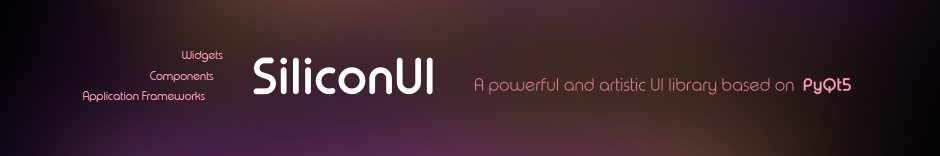
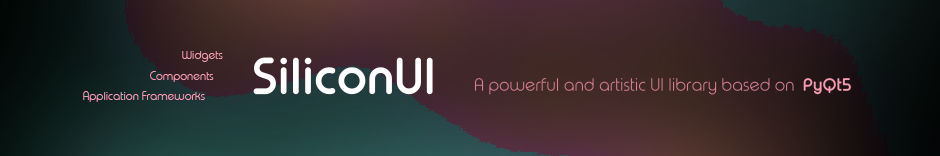
主 UI 紫调全量中性化：siui tokens 冷紫偏差中性灰阶 + 5 页面硬编码紫清理(#1C191F/#7C6FF7/#4C4554/#7573aa) + 图标/横幅资产紫→青灰相重映射 + 时间线紫段与滑条负向渐变清除

Changed region(s): [[0.0926, 0.4103, 0.5862, 1.0], [0.7713, 0.0, 0.833, 0.0513]]

diff --git a/MergeStudio/ui/js/timeline.js b/MergeStudio/ui/js/timeline.js
@@ -438,8 +438,8 @@
       var el = document.getElementById('timeline-legend');
       if (!el) return;
       el.innerHTML =
-        '<span><span class="legend-swatch" style="background:#2a0c4a"></span> 多人脸</span>' +
-        '<span><span class="legend-swatch" style="background:#8a6caa"></span> 少人脸</span>' +
+        '<span><span class="legend-swatch" style="background:#16323a"></span> 多人脸</span>' +
+        '<span><span class="legend-swatch" style="background:#4f7d7f"></span> 少人脸</span>' +
         '<span><span class="legend-swatch" style="background:#4c1010"></span> 无人脸</span>' +
         '<span><span class="legend-swatch" style="background:#6f8f90"></span> 选中人脸</span>';
     },
@@ -523,8 +523,8 @@
         var seg = document.createElement('div');
         seg.className = 'face-density-line__seg';
         var count = d.face_count || 0;
-        if (count === 0) seg.style.background = '#2a0c4a';
-        else if (count < 3) seg.style.background = '#8a6caa';
+        if (count === 0) seg.style.background = '#16323a';
+        else if (count < 3) seg.style.background = '#4f7d7f';
         else seg.style.background = '#4c1010';
         seg.style.flex = d.count || 1;
         line.appendChild(seg);

diff --git a/MergeStudio/ui/css/style.css b/MergeStudio/ui/css/style.css
@@ -293,7 +293,7 @@ html, body {
 }
 
 .param-slider__fill--neg {
-  background: linear-gradient(to left, #6f8f90, #3a3a6e);
+  background: linear-gradient(to left, #6f8f90, #67878a);
   right: 50%;
 }
 
@@ -448,7 +448,7 @@ html, body {
 .track { height: 40px; }
 .track--video .track-content { padding: 4px; }
 .track--video .track-inner {
-  background: linear-gradient(to right, #1b1d1f, #2a1a3e, #1b1d1f);
+  background: linear-gradient(to right, #1b1d1f, #202126, #1b1d1f);
   border-radius: var(--radius-sm);
 }
 

diff --git a/ui/theme_minimal_dark.py b/ui/theme_minimal_dark.py
@@ -2,7 +2,7 @@
 """极简暗色主题（ui-dark 分支）
 
 设计语言：taste-skill/minimalist 的暗色适配
-- 画布 #101013 / 表面 #141418 / 悬浮 #191A1D（无紫调、无渐变）
+- 画布 #121213 / 表面 #161618 / 悬浮 #1B1B1E（无紫调、无渐变）
 - 边框/分隔逻辑收敛到界面层级色差，强调色唯一：去饱和青灰 #6F8F90
 - 文字永不用纯黑/纯白：主 #D9DADB → 弱 #68696E
 - 状态色降饱和：成功 #5F8F6A / 警告 #A98B5F / 错误 #A65D5D
@@ -26,11 +26,11 @@ _TOKENS = {
     SiColor.LAYER_DIM:               '#90000000',
 
     # 界面层级：紫灰调 → 中性近黑
-    SiColor.INTERFACE_BG_A:          '#101013',
-    SiColor.INTERFACE_BG_B:          '#141418',
-    SiColor.INTERFACE_BG_C:          '#191A1D',
-    SiColor.INTERFACE_BG_D:          '#1E1F24',
-    SiColor.INTERFACE_BG_E:          '#242529',
+    SiColor.INTERFACE_BG_A:          '#121213',
+    SiColor.INTERFACE_BG_B:          '#161618',
+    SiColor.INTERFACE_BG_C:          '#1B1B1E',
+    SiColor.INTERFACE_BG_D:          '#212124',
+    SiColor.INTERFACE_BG_E:          '#28282B',
 
     # 文字：离白 → 弱灰
     SiColor.TEXT_A:                  '#D9DADB',
@@ -41,35 +41,35 @@ _TOKENS = {
 
     # 标题
     SiColor.TITLE_INDICATOR:         '#6F8F90',
-    SiColor.TITLE_HIGHLIGHT:         '#1E2829',
+    SiColor.TITLE_HIGHLIGHT:         '#20242A',
 
     # 侧边消息
     SiColor.SIDE_MSG_FLASH:          '#90FFFFFF',
-    SiColor.SIDE_MSG_THEME_NORMAL:   '#242529',
+    SiColor.SIDE_MSG_THEME_NORMAL:   '#28282B',
     SiColor.SIDE_MSG_THEME_SUCCESS:  '#5F8F6A',
     SiColor.SIDE_MSG_THEME_INFO:     '#6F8F90',
     SiColor.SIDE_MSG_THEME_WARNING:  '#A98B5F',
     SiColor.SIDE_MSG_THEME_ERROR:    '#A65D5D',
 
-    SiColor.MENU_BG:                 '#191A1D',
+    SiColor.MENU_BG:                 '#1B1B1E',
 
     # 按钮
-    SiColor.BUTTON_PANEL:            '#1F2023',
+    SiColor.BUTTON_PANEL:            '#212124',
     SiColor.BUTTON_SHADOW:           '#0B0B0C',
     SiColor.BUTTON_THEMED_BG_A:      '#557071',
     SiColor.BUTTON_THEMED_BG_B:      '#638485',
     SiColor.BUTTON_THEMED_SHADOW_A:  '#141D1C',
     SiColor.BUTTON_THEMED_SHADOW_B:  '#17231F',
     SiColor.BUTTON_ON:               '#141D1C',
-    SiColor.BUTTON_OFF:              '#242529',
+    SiColor.BUTTON_OFF:              '#28282B',
     SiColor.BUTTON_TEXT_BUTTON_IDLE: '#6F8F90',
     SiColor.BUTTON_TEXT_BUTTON_FLASH:'#6F8F90',
     SiColor.BUTTON_TEXT_BUTTON_HOVER:'#A8C4C5',
 
     # 单选 / 复选
-    SiColor.RADIO_BUTTON_UNCHECKED:  '#141418',
+    SiColor.RADIO_BUTTON_UNCHECKED:  '#161618',
     SiColor.RADIO_BUTTON_CHECKED:    '#6F8F90',
-    SiColor.CHECKBOX_SVG:            '#101013',
+    SiColor.CHECKBOX_SVG:            '#121213',
     SiColor.CHECKBOX_UNCHECKED:      '#939498',
     SiColor.CHECKBOX_CHECKED:        '#6F8F90',
 
@@ -80,11 +80,11 @@ _TOKENS = {
 
     # 开关
     SiColor.SWITCH_DEACTIVATE:       '#3A3B3F',
-    SiColor.SWITCH_ACTIVATE:         '#101013',
+    SiColor.SWITCH_ACTIVATE:         '#121213',
 
     # 滚动条 / 进度条
     SiColor.SCROLL_BAR:                  '#30FFFFFF',
-    SiColor.PROGRESS_BAR_TRACK:          '#141418',
+    SiColor.PROGRESS_BAR_TRACK:          '#161618',
     SiColor.PROGRESS_BAR_PROCESSING:     '#6F8F90',
     SiColor.PROGRESS_BAR_COMPLETING:     '#5F8F6A',
     SiColor.PROGRESS_BAR_PAUSED:         '#68696E',
@@ -101,4 +101,8 @@ def apply():
             applied += 1
         except Exception as e:
             print(f'[theme] {token.name}: {e}')
+    try:
+        SiGlobal.siui.iconpack.setDefaultColor('#D1D1D3')
+    except Exception:
+        pass
     print(f'[theme] 极简暗色主题已挂载（{applied}/{len(_TOKENS)} tokens）')

diff --git a/ui/components/page_trtcompile/page_trtcompile.py b/ui/components/page_trtcompile/page_trtcompile.py
@@ -13,10 +13,10 @@ from siui.components.button import SiPushButtonRefactor
 from siui.components.progress_bar import SiProgressBar
 from siui.core import SiGlobal, SiColor
 
-_BG = "#1C191F"
+_BG = "#1B1B1D"
 _TEXT = "#FFFFFF"
 _TEXT_DIM = "#999999"
-_ACCENT = "#7C6FF7"
+_ACCENT = "#6F8F90"
 
 
 class _CompileSignals(QObject):
@@ -134,8 +134,8 @@ class TRTCompilePage(SiPage):
                 f"  font-family: 'Consolas', 'Courier New', monospace;"
                 f"}}"
                 f"QScrollBar:vertical {{ background: transparent; width: 6px; border: none; }}"
-                f"QScrollBar::handle:vertical {{ background: #3a3a52; border-radius: 3px; min-height: 30px; }}"
-                f"QScrollBar::handle:vertical:hover {{ background: #5a5a72; }}"
+                f"QScrollBar::handle:vertical {{ background: #3a3a3e; border-radius: 3px; min-height: 30px; }}"
+                f"QScrollBar::handle:vertical:hover {{ background: #5a5a5e; }}"
                 f"QScrollBar::add-line:vertical, QScrollBar::sub-line:vertical {{ height: 0; }}"
                 f"QScrollBar:horizontal {{ height: 0; }}"
             )

diff --git a/WebUI/page_trainer.py b/WebUI/page_trainer.py
@@ -651,7 +651,7 @@ function renderLabels() {
   const dLossVec = _previewLabels.dst_loss_vec || null;
   const pad = Math.max(4, cellW / 50);
   const fs = Math.max(10, cellW / 22);
-  const baseStyle = 'position:absolute;font-size:' + (fs * sx) + 'px;font-family:sans-serif;font-weight:700;white-space:nowrap;pointer-events:none;line-height:1;bottom:auto;color:rgba(255,255,255,.9);background-image:linear-gradient(90deg,#6a4aff,#b07eff);-webkit-background-clip:text;-webkit-text-fill-color:transparent;background-clip:text;filter:drop-shadow(0 0 6px rgba(0,0,0,.9)) drop-shadow(0 0 12px rgba(0,0,0,.7))';
+  const baseStyle = 'position:absolute;font-size:' + (fs * sx) + 'px;font-family:sans-serif;font-weight:700;white-space:nowrap;pointer-events:none;line-height:1;bottom:auto;color:rgba(255,255,255,.9);background-image:linear-gradient(90deg,#6f8f90,#67878a);-webkit-background-clip:text;-webkit-text-fill-color:transparent;background-clip:text;filter:drop-shadow(0 0 6px rgba(0,0,0,.9)) drop-shadow(0 0 12px rgba(0,0,0,.7))';
 
   function fmtLoss(v) {
     return (v !== undefined && v !== 0) ? v.toFixed(4) : '';

diff --git a/ui/components/page_changelog/page_changelog.py b/ui/components/page_changelog/page_changelog.py
@@ -42,8 +42,8 @@ class ChangelogPage(SiPage):
                 "  font-family: 'Inter', 'Consolas', monospace;"
                 "}"
                 "QScrollBar:vertical { background: transparent; width: 6px; border: none; }"
-                "QScrollBar::handle:vertical { background: #3a3a52; border-radius: 3px; min-height: 30px; }"
-                "QScrollBar::handle:vertical:hover { background: #5a5a72; }"
+                "QScrollBar::handle:vertical { background: #3a3a3e; border-radius: 3px; min-height: 30px; }"
+                "QScrollBar::handle:vertical:hover { background: #5a5a5e; }"
                 "QScrollBar::add-line:vertical, QScrollBar::sub-line:vertical { height: 0; }"
                 "QScrollBar:horizontal { height: 0; }"
             )

diff --git a/ui/components/page_trainer/components/training_config_page.py b/ui/components/page_trainer/components/training_config_page.py
@@ -1625,7 +1625,7 @@ class TrainingConfigChildPage(SiChildPage):
         _cancel_btn = SiSimpleButton(_dlg.buttonContainer())
         _cancel_btn.attachment().setText("取消")
         _cancel_btn.setBorderRadius(6)
-        _cancel_btn.setIdleColor("#4C4554")
+        _cancel_btn.setIdleColor("#4A4A4E")
         _cancel_btn.reloadStyleSheet()
         _cancel_btn.resize(400, 40)
         _dlg.buttonContainer().addWidget(_cancel_btn)

diff --git a/ui/components/biliauth/login_dialog.py b/ui/components/biliauth/login_dialog.py
@@ -24,9 +24,9 @@ from core.biliauth.user_info import fetch_user_info
 from core.biliauth.follow import follow_user
 
 # Theme colors matching the main window
-_BG = "#1C191F"
-_BG_CARD = "#2a2733"
-_BUTTON = "#2a2733"
+_BG = "#1B1B1D"
+_BG_CARD = "#29292b"
+_BUTTON = "#29292b"
 _TEXT = "#FFFFFF"
 _TEXT_DIM = "#999999"
 _THEME = "#6F8F90"

diff --git a/ui/components/page_maskprocessor/page_maskprocessor.py b/ui/components/page_maskprocessor/page_maskprocessor.py
@@ -17,8 +17,8 @@ from siui.components.combobox_ import SiCapsuleComboBox
 from siui.core import SiGlobal
 
 # Theme colors matching main window
-_BG = "#1C191F"
-_BG_CARD = "#2a2733"
+_BG = "#1B1B1D"
+_BG_CARD = "#29292b"
 _TEXT = "#FFFFFF"
 _TEXT_DIM = "#999999"
 _THEME = "#6F8F90"

diff --git a/ui/components/page_bilibili_downloader/page_bilibili_downloader.py b/ui/components/page_bilibili_downloader/page_bilibili_downloader.py
@@ -36,7 +36,7 @@ class _BilibiliSignals(QObject):
     overall_progress = pyqtSignal(int, int)               # completed, total
     all_done = pyqtSignal()
 
-_BG = "#1C191F"
+_BG = "#1B1B1D"
 _TEXT = "#FFFFFF"
 _TEXT_DIM = "#999999"
 
